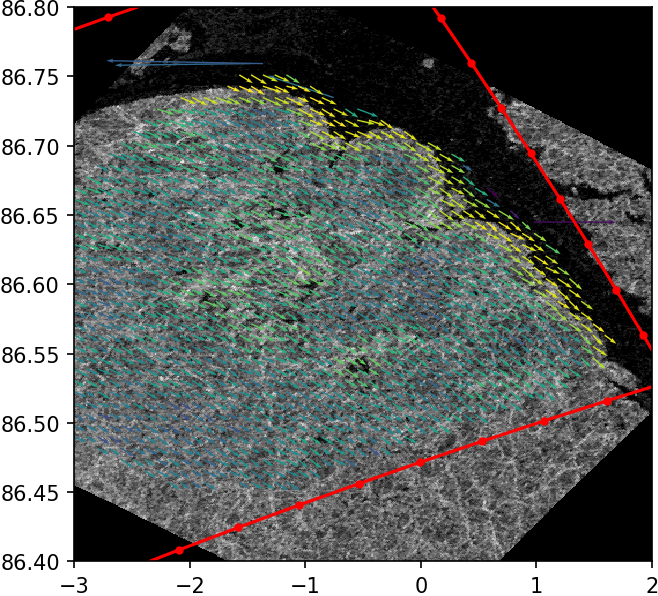
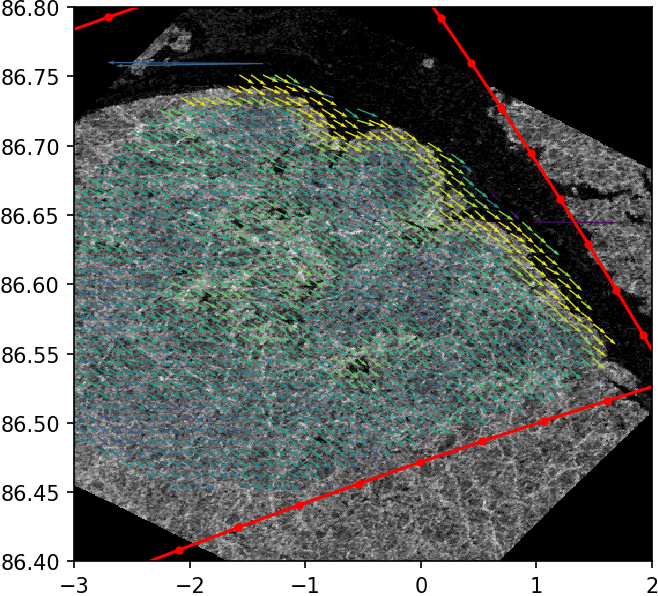
small updates in pattern_matching

diff --git a/sea_ice_drift/pmlib.py b/sea_ice_drift/pmlib.py
@@ -56,7 +56,7 @@ def get_hessian(ccm, hes_norm=True, hes_smth=False, **kwargs):
     return hes
 
 
-def get_rotated_template(img, r, c, size, angle, order=1):
+def get_rotated_template(img, r, c, size, angle, rot_order=1, **kwargs):
     ''' Get rotated template of a given size
     Parameters
     ----------
@@ -72,10 +72,8 @@ def get_rotated_template(img, r, c, size, angle, order=1):
     '''
     hws = size / 2.
     angle_rad = np.radians(angle)
-    hwsrot = np.ceil(hws * np.abs(np.cos(angle_rad)) +
-                     hws * np.abs(np.sin(angle_rad)))
-    hwsrot2 = np.ceil(hwsrot * np.abs(np.cos(angle_rad)) +
-                      hwsrot * np.abs(np.sin(angle_rad)))
+    hwsrot = np.ceil(hws * np.abs(np.cos(angle_rad)) + hws * np.abs(np.sin(angle_rad)))
+    hwsrot2 = np.ceil(hwsrot * np.abs(np.cos(angle_rad)) + hwsrot * np.abs(np.sin(angle_rad)))
     rotBorder1 = int(hwsrot2 - hws)
     rotBorder2 = int(rotBorder1 + hws + hws)
 
@@ -88,7 +86,7 @@ def get_rotated_template(img, r, c, size, angle, order=1):
                                    xsize=int(hwsrot*2+1),
                                    ysize=int(hwsrot*2+1))
 
-    templateRot = nd.interpolation.rotate(template, angle, order=order)
+    templateRot = nd.interpolation.rotate(template, angle, order=rot_order)
     templateRot = templateRot[rotBorder1:rotBorder2, rotBorder1:rotBorder2]
 
     return templateRot
@@ -153,11 +151,13 @@ def rotate_and_match(img1, x, y, img_size, image, alpha0,
     '''
     best_r = -np.inf
     for angle in angles:
-        template = get_rotated_template(img1, y, x, img_size, angle-alpha0)
+        template = get_rotated_template(img1, y, x, img_size, angle-alpha0, **kwargs)
         if template.shape[0] < img_size or template.shape[1] < img_size:
             return np.nan, np.nan, np.nan, np.nan, np.nan, np.nan
+
         result = template_matcher(image, template.astype(np.uint8), mtype)
         ij = np.unravel_index(np.argmax(result), result.shape)
+
         if result.max() > best_r:
             best_r = result.max()
             best_a = angle
@@ -188,7 +188,7 @@ def use_mcc(x1p, y1p, x2p, y2p, border, img1, img2, img_size, alpha0, **kwargs):
         img2 : 2D array - full szie image 2
         img_size : int, template size
         alpha0 : float, rotation between two images
-        kwargs : dict, params for rotate_and_match, get_hessian
+        kwargs : dict, params for rotate_and_match, get_rotated_template, get_hessian
     Returns
     -------
         x2 : float, result X coordinate on image 2
@@ -198,13 +198,15 @@ def use_mcc(x1p, y1p, x2p, y2p, border, img1, img2, img_size, alpha0, **kwargs):
         h : float, Hessian of CC at MCC point
 
     """
+    x2p, y2p = int(round(x2p)), int(round(y2p))
+
     hws = int(img_size / 2.)
     image = img2[int(y2p-hws-border):int(y2p+hws+border+1),
                  int(x2p-hws-border):int(x2p+hws+border+1)]
+
     dx, dy, a, r, h, bestr, bestt = rotate_and_match(img1, x1p, y1p,
                                                      img_size, image,
                                                      alpha0, **kwargs)
-
     x2 = x2p + dx
     y2 = y2p + dy
 
@@ -354,6 +356,8 @@ def pattern_matching(lon1_dst, lat1_dst,
                 mtype : int - type of cross-correlation
                 template_matcher : func - function to use for template matching
                 mcc_norm : bool, normalize MCC by AVG and STD ?
+            get_rotated_template
+                rot_order : resampling order for rotation
             get_hessian
                 hes_norm : bool, normalize Hessian by AVG and STD?
                 hes_smth : bool, smooth Hessian?
@@ -370,6 +374,7 @@ def pattern_matching(lon1_dst, lat1_dst,
         lat2_dst : 1D vector, latitude  of results on image 2
     '''
     img1, img2 = n1[1], n2[1]
+    dst_shape = lon1_dst.shape
     # convert lon/lat to pixe/line of the first image
     x1_dst, y1_dst = n1.transform_points(lon1_dst.flatten(), lat1_dst.flatten(), 1)
 
@@ -378,6 +383,7 @@ def pattern_matching(lon1_dst, lat1_dst,
                                              n2, x2, y2,
                                              img_size,
                                              **kwargs)
+
     # find good input points
     hws = img_size / 2
     hws_hypot = np.hypot(hws, hws)
@@ -398,24 +404,30 @@ def pattern_matching(lon1_dst, lat1_dst,
         shared_args = args[:9]
         shared_kwargs = args[9]
 
-    # run MCC in multiple threads
-    p = Pool(threads, initializer=_init_pool,
-            initargs=(x1_dst[gpi], y1_dst[gpi], x2fg[gpi], y2fg[gpi], border[gpi],
-                      img1, img2, img_size, alpha0, kwargs))
-    results = p.map(use_mcc_mp, range(len(gpi[gpi])))
-    p.close()
-    p.terminate()
-    p.join()
-    del p
+    if threads == 0:
+        # run MCC without threads
+        _init_pool(x1_dst[gpi], y1_dst[gpi], x2fg[gpi], y2fg[gpi], border[gpi],
+                      img1, img2, img_size, alpha0, kwargs)
+        results = [use_mcc_mp(i) for i in range(len(gpi[gpi]))]
+    else:
+        # run MCC in multiple threads
+        p = Pool(threads, initializer=_init_pool,
+                initargs=(x1_dst[gpi], y1_dst[gpi], x2fg[gpi], y2fg[gpi], border[gpi],
+                          img1, img2, img_size, alpha0, kwargs))
+        results = p.map(use_mcc_mp, range(len(gpi[gpi])))
+        p.close()
+        p.terminate()
+        p.join()
+        del p
 
     if len(results) == 0:
-        lon2_dst = np.zeros(lon1_dst.shape) + np.nan
-        lat2_dst = np.zeros(lon1_dst.shape) + np.nan
-        u = np.zeros(lon1_dst.shape) + np.nan
-        v = np.zeros(lon1_dst.shape) + np.nan
-        a = np.zeros(lon1_dst.shape) + np.nan
-        r = np.zeros(lon1_dst.shape) + np.nan
-        h = np.zeros(lon1_dst.shape) + np.nan
+        lon2_dst = np.zeros(dst_shape) + np.nan
+        lat2_dst = np.zeros(dst_shape) + np.nan
+        u = np.zeros(dst_shape) + np.nan
+        v = np.zeros(dst_shape) + np.nan
+        a = np.zeros(dst_shape) + np.nan
+        r = np.zeros(dst_shape) + np.nan
+        h = np.zeros(dst_shape) + np.nan
     else:
         results = np.array(results)
 
@@ -427,14 +439,14 @@ def pattern_matching(lon1_dst, lat1_dst,
 
         u, v, lon1, lat1, lon2, lat2 = get_drift_vectors(n1, x1_dst[gpi], y1_dst[gpi],
                                                          n2, x2_dst, y2_dst,
+                                                         dst_shape=dst_shape, gpi=gpi,
                                                          **kwargs)
-
-        lon2_dst = _fill_gpi(lon1_dst.shape, gpi, lon2)
-        lat2_dst = _fill_gpi(lon1_dst.shape, gpi, lat2)
-        u = _fill_gpi(lon1_dst.shape, gpi, u)
-        v = _fill_gpi(lon1_dst.shape, gpi, v)
-        a = _fill_gpi(lon1_dst.shape, gpi, a)
-        r = _fill_gpi(lon1_dst.shape, gpi, r)
-        h = _fill_gpi(lon1_dst.shape, gpi, h)
+        lon2_dst = _fill_gpi(dst_shape, gpi, lon2)
+        lat2_dst = _fill_gpi(dst_shape, gpi, lat2)
+        u = _fill_gpi(dst_shape, gpi, u)
+        v = _fill_gpi(dst_shape, gpi, v)
+        a = _fill_gpi(dst_shape, gpi, a)
+        r = _fill_gpi(dst_shape, gpi, r)
+        h = _fill_gpi(dst_shape, gpi, h)
 
     return u, v, a, r, h, lon2_dst, lat2_dst

diff --git a/sea_ice_drift/lib.py b/sea_ice_drift/lib.py
@@ -13,6 +13,7 @@
 # but WITHOUT ANY WARRANTY without even the implied warranty of
 # MERCHANTABILITY or FITNESS FOR A PARTICULAR PURPOSE.
 from __future__ import absolute_import, print_function
+import matplotlib.pyplot as plt
 
 import numpy as np
 
@@ -143,8 +144,8 @@ def x2y2_interpolation_poly(x1, y1, x2, y2, x1grd, y1grd, order=1, **kwargs):
         A += [x1**3, y1**3, x1**2*y1, y1**2*x1]
 
     A = np.vstack(A).T
-    Bx = np.linalg.lstsq(A, x2)[0]
-    By = np.linalg.lstsq(A, y2)[0]
+    Bx = np.linalg.lstsq(A, x2, rcond=None)[0]
+    By = np.linalg.lstsq(A, y2, rcond=None)[0]
     x1grdF = x1grd.flatten()
     y1grdF = y1grd.flatten()
 
@@ -207,7 +208,7 @@ def get_n(filename, bandName='sigma0_HV', factor=0.5,
     else:
         # open data with Nansat and downsample
         n = Nansat(filename)
-        n.resize(factor, eResampleAlg=-1)
+        n.resize(factor, resample_alg=-1)
     # get matrix with data
     img = n[bandName]
     # convert to dB
@@ -216,7 +217,7 @@ def get_n(filename, bandName='sigma0_HV', factor=0.5,
     # convert to 0 - 255
     img = get_uint8_image(img, vmin, vmax)
 
-    nout = Nansat(domain=n, array=img, parameters={'name': bandName})
+    nout = Nansat.from_domain(n, img, parameters={'name': bandName})
     nout.set_metadata(n.get_metadata())
     # improve geolocation accuracy
     nout.reproject_gcps()
